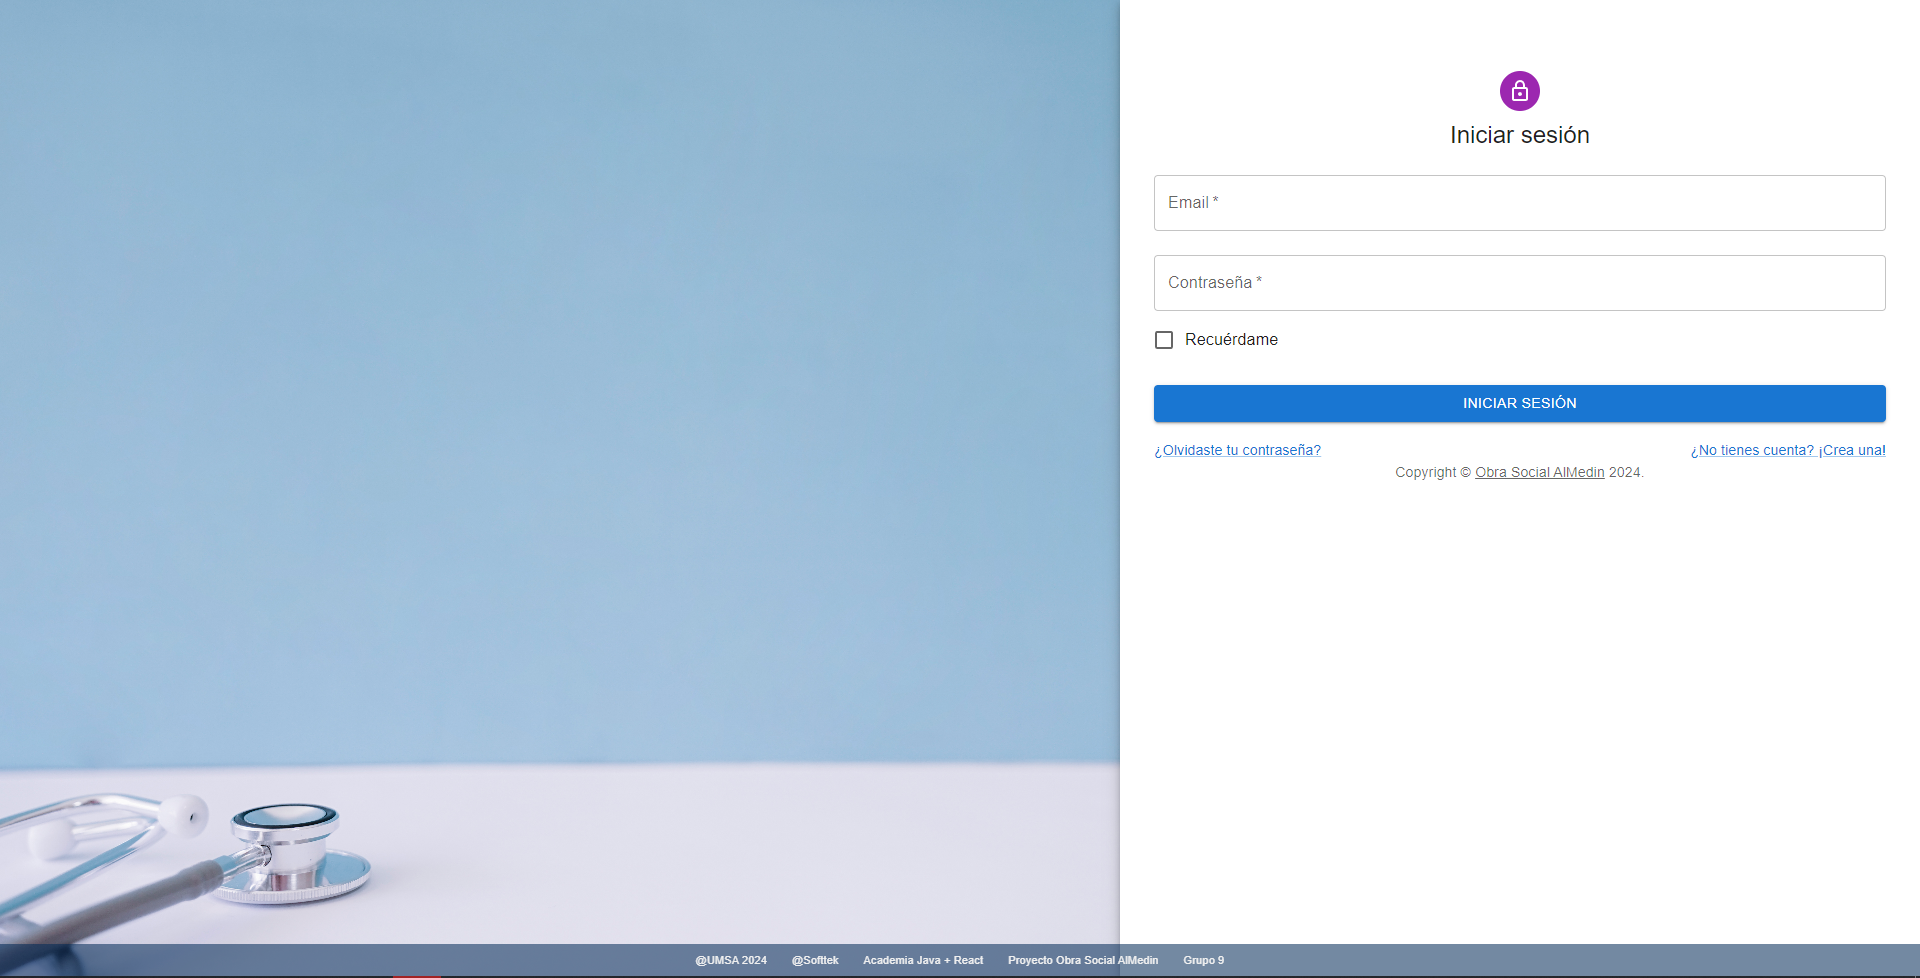
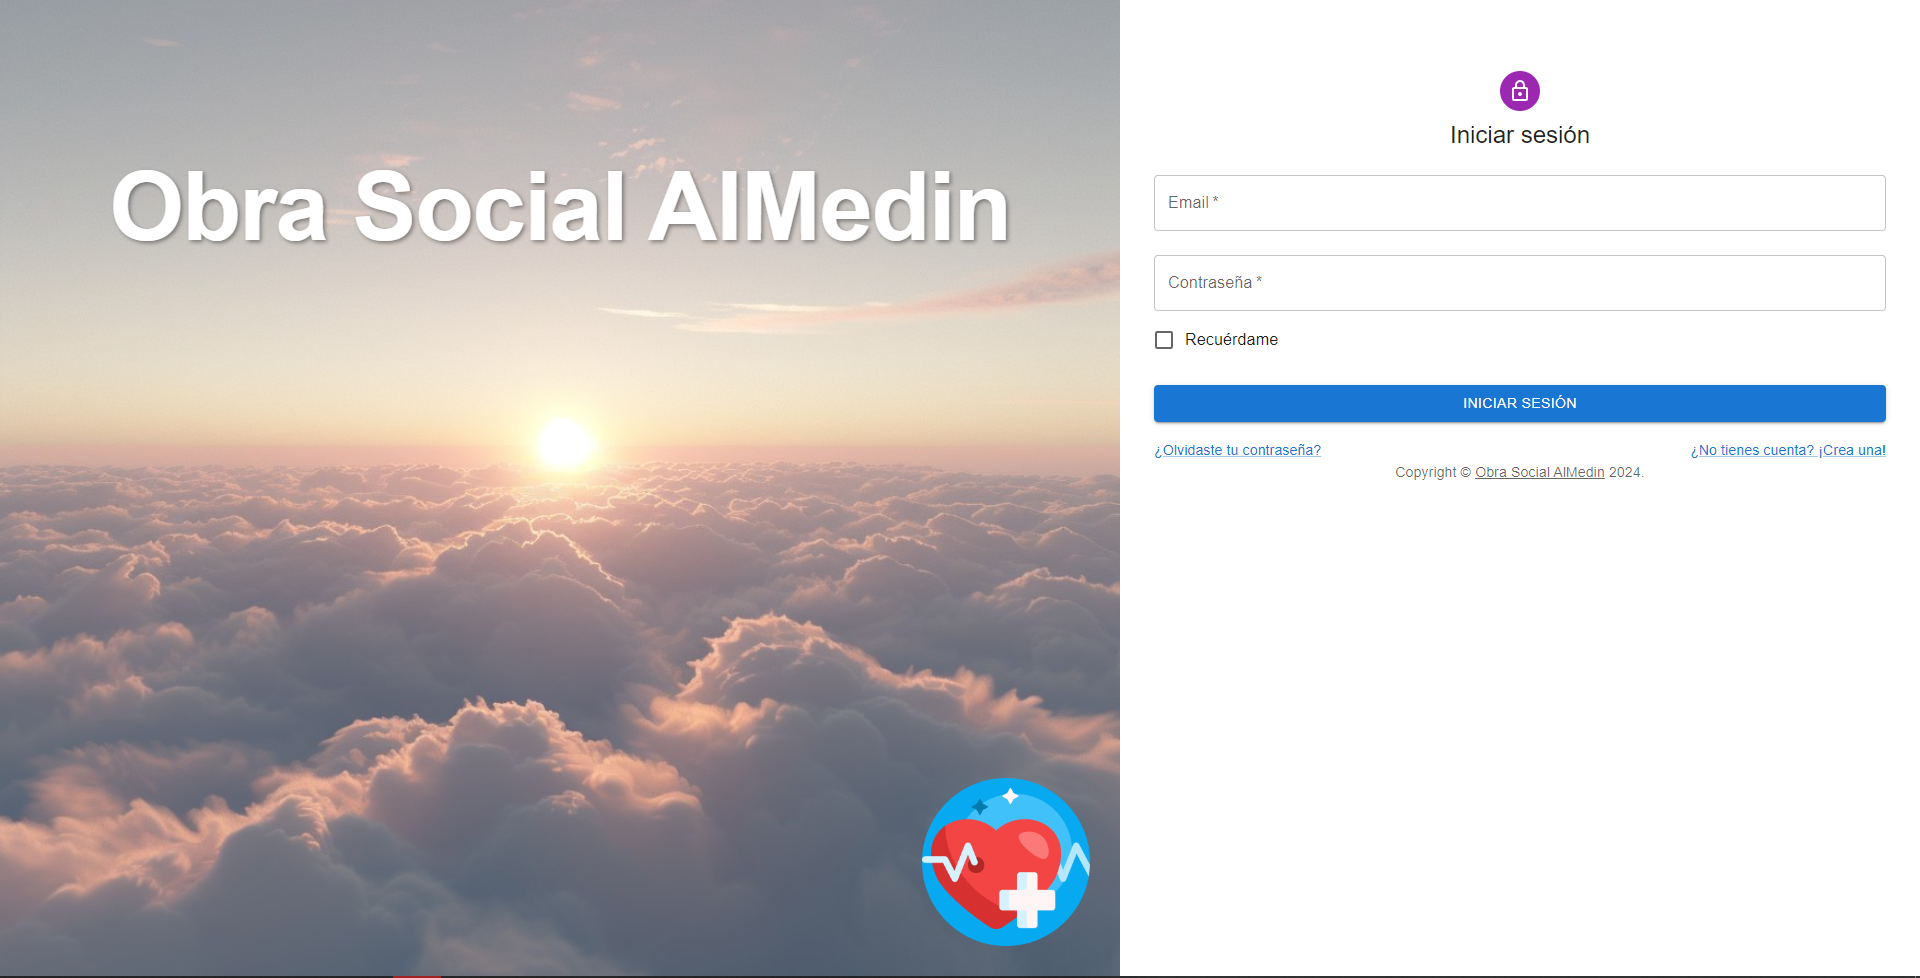
readme y actualizacion del login

diff --git a/frontend/obra-social-front/src/components/singin/SingIn.tsx b/frontend/obra-social-front/src/components/singin/SingIn.tsx
@@ -13,7 +13,9 @@ import LockOutlinedIcon from '@mui/icons-material/LockOutlined';
 import Typography from '@mui/material/Typography';
 import { createTheme, ThemeProvider } from '@mui/material/styles';
 import { useNavigate } from 'react-router-dom';
-import fondoImagen from '../../assets/fondoHospital.jpg';
+import fondoImagen from '../../assets/fondo.jpg';
+import iconoImagen from '../../assets/icon.png'; // Ruta a tu imagen grande
+
 
 function Copyright() {
   return (
@@ -43,19 +45,44 @@ const SignInSide: React.FC = () => {
       <Grid container component="main" sx={{ height: '100vh' }}>
         <CssBaseline />
         <Grid
-          item
-          xs={false}
-          sm={4}
-          md={7}
-          sx={{
-            backgroundImage: `url(${fondoImagen})`,
-            backgroundRepeat: 'no-repeat',
-            backgroundColor: (t) =>
-              t.palette.mode === 'light' ? t.palette.grey[50] : t.palette.grey[900],
-            backgroundSize: 'cover',
-            backgroundPosition: 'center',
-          }}
-        />
+      item
+      xs={false}
+      sm={4}
+      md={7}
+      sx={{
+        backgroundImage: `url(${fondoImagen})`,
+        backgroundRepeat: 'no-repeat',
+        backgroundColor: (t) =>
+          t.palette.mode === 'light' ? t.palette.grey[50] : t.palette.grey[900],
+        backgroundSize: 'cover',
+        backgroundPosition: 'center',
+        display: 'flex',
+        flexDirection: 'column',
+        alignItems: 'center',
+        justifyContent: 'center',
+        textAlign: 'center',
+        height: '100vh', // Ajusta la altura según necesites
+        position: 'relative', // Asegura que los elementos internos se posicionen correctamente
+      }}
+    >
+      <Typography variant="h1" color="white"  marginBottom='50%'sx={{ fontWeight: 'bold', textShadow: '2px 2px 4px rgba(0,0,0,0.4)' }}>
+        Obra Social AlMedin
+      </Typography>
+      <img
+        src={iconoImagen}
+        alt="Icono grande"
+        style={{
+          maxWidth: '15%',
+          position: 'absolute',
+          bottom: '10px',
+          right: '10px',
+          marginBottom:'20px',
+          marginRight:'20px',
+        }}
+      />
+    </Grid>
+
+
         <Grid item xs={12} sm={8} md={5} component={Paper} elevation={6} square>
           <Box
             sx={{

diff --git a/frontend/obra-social-front/src/ui/footer/Footer.tsx b/frontend/obra-social-front/src/ui/footer/Footer.tsx
@@ -1,7 +1,13 @@
 import React from "react";
 import "./Footer.css";
-
+import { useLocation } from "react-router-dom";
 const Footer: React.FC = () => {
+  const location = useLocation();
+  const hideFooterPaths = ["/"];
+
+  if (hideFooterPaths.includes(location.pathname)) {
+    return null;}
+
   return (
     <footer className="footer">
       <div className="footer-content">
